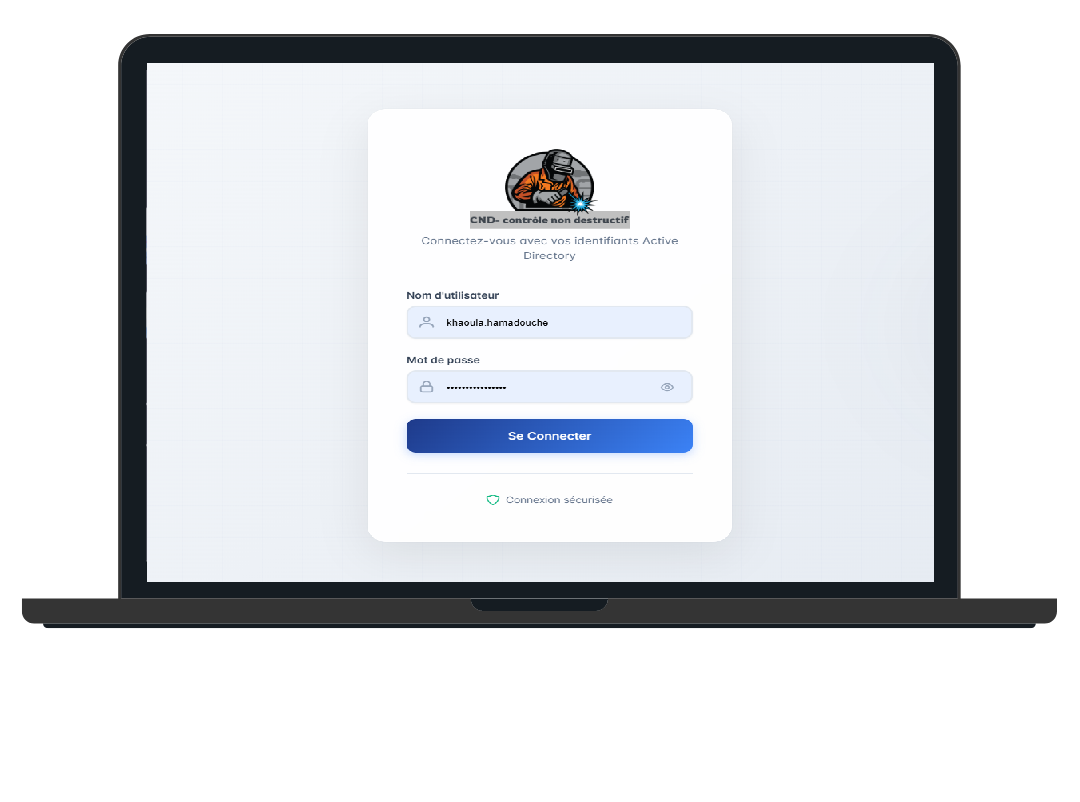
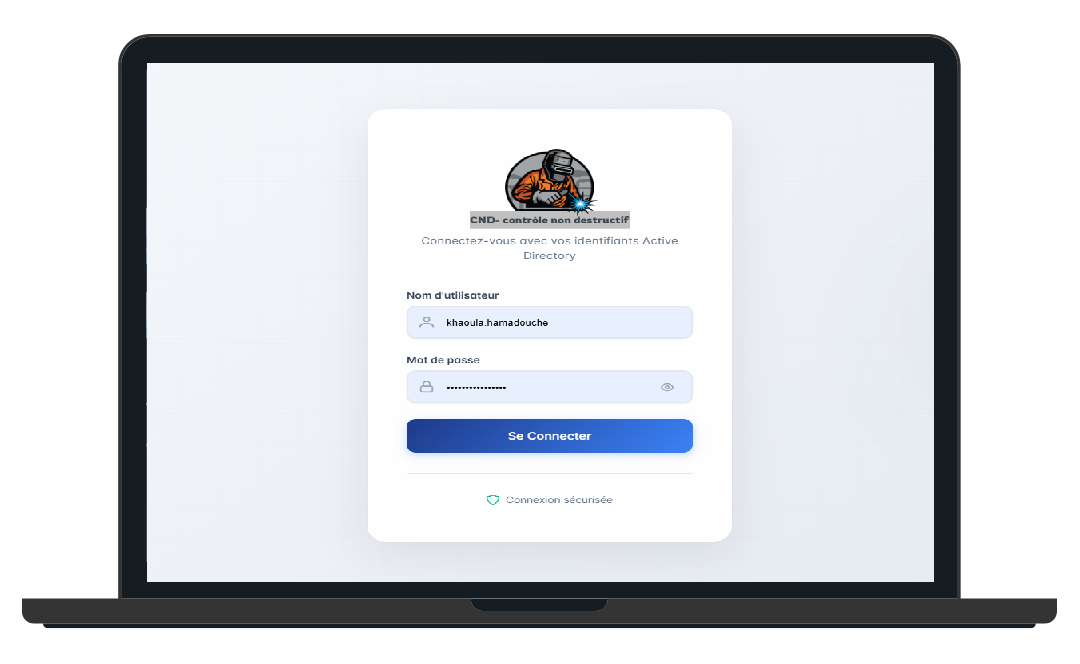
portfolio

diff --git a/src/components/Projects/Projects.js b/src/components/Projects/Projects.js
@@ -9,6 +9,26 @@ import chatify from "../../Assets/Projects/chatify.png";
 import suicide from "../../Assets/Projects/suicide.png";
 import bitsOfCode from "../../Assets/Projects/blog.png";
 
+// Import des icônes de technologies
+import ReactIcon from "../../Assets/TechIcons/React.svg";
+import Java from "../../Assets/TechIcons/Java.svg";
+import angular from "../../Assets/TechIcons/angular.svg";
+import springboot from "../../Assets/TechIcons/spring-boot-icon.svg";
+import SQL from "../../Assets/TechIcons/SQL.svg";
+import Tailwind from "../../Assets/TechIcons/Tailwind.svg";
+import Typescript from "../../Assets/TechIcons/Typescript.svg";
+import MUI from "../../Assets/TechIcons/MUI.svg";
+import Javascript from "../../Assets/TechIcons/Javascript.svg";
+import Laravel from "../../Assets/TechIcons/laravel.svg";
+import Php from "../../Assets/TechIcons/php.svg";
+import Drupal from "../../Assets/TechIcons/drupal.svg";
+import Html from "../../Assets/TechIcons/html.svg";
+import Css from "../../Assets/TechIcons/css.svg";
+import Scss from "../../Assets/TechIcons/sass.svg";
+
+
+
+
 function Projects() {
   return (
     <Container fluid className="project-section">
@@ -18,7 +38,7 @@ function Projects() {
            Mes projets <strong className="purple">récents </strong>
         </h1>
         <p style={{ color: "white" }}>
-           Voici quelques projets sur lesquels j’ai travaillé récemment
+           Voici quelques projets sur lesquels j'ai travaillé récemment
         </p>
         <Row style={{ justifyContent: "center", paddingBottom: "10px" }}>
           <Col md={4} className="project-card">
@@ -26,9 +46,18 @@ function Projects() {
               imgPath={chatify}
               isBlog={false}
               title="TOSYS APP"
-              description="Personal Chat Room or Workspace to share resources and hangout with friends build with react.js, Material-UI, and Firebase. Have features which allows user for realtime messaging, image sharing as well as supports reactions on messages."
-              ghLink="https://github.com/soumyajit4419/Chatify"
-              demoLink="https://chatify-49.web.app/"
+              description="Est une plateforme web développée pour SARPI visant à moderniser la gestion des utilisateurs. Elle facilite l'administration des comptes AD/Exchange, réduit les tâches manuelles grâce à l'automatisation et assure une gestion sécurisée et traçable des opérations."
+              ghLink="https://github.com/khaoula-hamadouche/TosysApp"
+              techStack={[
+                { name: "React", icon: ReactIcon },
+                { name: "Javascript", icon: Javascript },
+                { name: "MySQL", icon: SQL },
+                { name: "Tailwind", icon: Tailwind },
+                { name: "Material UI", icon: MUI },
+                { name: "Laravel", icon: Laravel },
+                { name: "Css", icon: Css },
+
+              ]}
             />
           </Col>
 
@@ -37,9 +66,16 @@ function Projects() {
               imgPath={bitsOfCode}
               isBlog={false}
               title="CME APP"
-              description="My personal blog page build with Next.js and Tailwind Css which takes the content from makdown files and renders it using Next.js. Supports dark mode and easy to write blogs using markdown."
-              ghLink="https://github.com/soumyajit4419/Bits-0f-C0de"
-              demoLink="https://blogs.soumya-jit.tech/"
+              description="Vise à moderniser les processus de gestion des marchés via une plateforme web intelligente, en centralisant les dossiers, en automatisant les tâches récurrentes et en soutenant la prise de décision grâce à un module d'intelligence artificielle."
+              ghLink="https://github.com/khaoula-hamadouche/Cmeapp"
+              techStack={[
+                { name: "Angular", icon: angular },
+                { name: "Spring Boot", icon: springboot },
+                { name: "MySQL", icon: SQL },
+                { name: "Java", icon: Java },
+                { name: "Material UI", icon: MUI },
+                { name: "Scss", icon: Scss },
+              ]}
             />
           </Col>
 
@@ -48,9 +84,18 @@ function Projects() {
               imgPath={editor}
               isBlog={false}
               title="CND APP"
-              description="Online code and markdown editor build with react.js. Online Editor which supports html, css, and js code with instant view of website. Online markdown editor for building README file which supports GFM, Custom Html tags with toolbar and instant preview.Both the editor supports auto save of work using Local Storage"
-              ghLink="https://github.com/soumyajit4419/Editor.io"
-              demoLink="https://editor.soumya-jit.tech/"              
+              description="Est une plateforme dédiée aux soudeurs et contrôleurs non destructifs, visant à digitaliser et centraliser le suivi des opérations de contrôle, à automatiser certaines tâches et à améliorer la traçabilité et la fiabilité des inspections."
+              ghLink="https://github.com/khaoula-hamadouche/CndApp"
+              techStack={[
+                { name: "React", icon: ReactIcon },
+                { name: "Javascript", icon: Javascript },
+                { name: "MySQL", icon: SQL },
+                { name: "Tailwind", icon: Tailwind },
+                { name: "Material UI", icon: MUI },
+                { name: "Laravel", icon: Laravel },
+                { name: "Css", icon: Css },
+                
+              ]}
             />
           </Col>
 
@@ -59,9 +104,17 @@ function Projects() {
               imgPath={leaf}
               isBlog={false}
               title="GMAT APP"
-              description="Used the plant disease dataset from Kaggle and trained a image classifer model using 'PyTorch' framework using CNN and Transfer Learning with 38 classes of various plant leaves. The model was successfully able to detect diseased and healthy leaves of 14 unique plants. I was able to achieve an accuracy of 98% by using Resnet34 pretrained model."
-              ghLink="https://github.com/soumyajit4419/Plant_AI"
-              demoLink="https://plant49-ai.herokuapp.com/"
+              description="Est une plateforme dédiée à la gestion du matériel et de la maintenance, visant à centraliser les équipements, planifier les opérations de maintenance, automatiser les tâches courantes et assurer un suivi fiable et traçable des interventions."
+              ghLink="https://github.com/khaoula-hamadouche/GmatApp"
+              techStack={[
+                { name: "React", icon: ReactIcon },
+                { name: "Typescript", icon: Typescript },
+                { name: "MySQL", icon: SQL },
+                { name: "Tailwind", icon: Tailwind },
+                { name: "Material UI", icon: MUI },
+                { name: "Laravel", icon: Laravel },
+                { name: "Css", icon: Css },
+              ]}
             />
           </Col>
 
@@ -70,9 +123,14 @@ function Projects() {
               imgPath={suicide}
               isBlog={false}
               title="Gestion courrier Algérie Télécom"
-              description="Using 'Natural Launguage Processing' for the detection of suicide-related posts and user's suicide ideation in cyberspace  and thus helping in sucide prevention."
-              ghLink="https://github.com/soumyajit4419/AI_For_Social_Good"
-              // demoLink="https://www.youtube.com/watch?v=dQw4w9WgXcQ&ab_channel=RickAstley" <--------Please include a demo link here
+              description="Est une plateforme qui centralise la réception et l'envoi des courriers au sein de l'entreprise, facilite leur suivi et optimise la gestion interne de l'ensemble des envois."
+              ghLink="https://github.com/khaoula-hamadouche/gestion_courrier/tree/main/PFE"
+              techStack={[
+                { name: "Php", icon: Php },
+                { name: "MySQL", icon: SQL },
+                { name: "Css", icon: Css },
+                { name: "Html", icon: Html },
+              ]}
             />
           </Col>
 
@@ -81,10 +139,12 @@ function Projects() {
               imgPath={emotion}
               isBlog={false}
               title="Portail Sarpi"
-              description="Trained a CNN classifier using 'FER-2013 dataset' with Keras and tensorflow backened. The classifier sucessfully predicted the various types of emotions of human. And the highest accuracy obtained with the model was 60.1%.
-              Then used Open-CV to detect the face in an image and then pass the face to the classifer to predict the emotion of a person."
+              description="Est une plateforme centralisée qui permet d'accéder aux informations de chaque département de la société SARPI, facilitant la consultation, le suivi et la gestion interne des données."
               ghLink="https://github.com/soumyajit4419/Face_And_Emotion_Detection"
-              // demoLink="https://blogs.soumya-jit.tech/"      <--------Please include a demo link here 
+              techStack={[
+                { name: "Drupal", icon: Drupal },
+                { name: "Css", icon: Css },
+              ]}
             />
           </Col>
         </Row>

diff --git a/src/components/Projects/ProjectCards.js b/src/components/Projects/ProjectCards.js
@@ -13,14 +13,56 @@ function ProjectCards(props) {
         <Card.Text style={{ textAlign: "justify" }}>
           {props.description}
         </Card.Text>
+        
+        {/* Section des technologies utilisées */}
+        {props.techStack && props.techStack.length > 0 && (
+          <div style={{ margin: "15px 0" }}>
+            <h6 style={{ marginBottom: "10px", color: "#c770f0" }}>
+              Technologies utilisées:
+            </h6>
+            <div style={{ 
+              display: "flex", 
+              flexWrap: "wrap", 
+              gap: "10px",
+              justifyContent: "center"
+            }}>
+              {props.techStack.map((tech, index) => (
+                <div
+                  key={index}
+                  style={{
+                    display: "flex",
+                    alignItems: "center",
+                    gap: "5px",
+                    padding: "5px 10px",
+                    backgroundColor: "rgba(199, 112, 240, 0.1)",
+                    borderRadius: "5px",
+                    border: "1px solid rgba(199, 112, 240, 0.3)"
+                  }}
+                >
+                  <img 
+                    src={tech.icon} 
+                    alt={tech.name}
+                    style={{ 
+                      width: "20px", 
+                      height: "20px",
+                      objectFit: "contain"
+                    }}
+                  />
+                  <span style={{ fontSize: "12px", color: "white" }}>
+                    {tech.name}
+                  </span>
+                </div>
+              ))}
+            </div>
+          </div>
+        )}
+
         <Button variant="primary" href={props.ghLink} target="_blank">
           <BsGithub /> &nbsp;
           {props.isBlog ? "Blog" : "GitHub"}
         </Button>
         {"\n"}
         {"\n"}
-
-        {/* If the component contains Demo link and if it's not a Blog then, it will render the below component  */}
 
         {!props.isBlog && props.demoLink && (
           <Button
@@ -37,4 +79,5 @@ function ProjectCards(props) {
     </Card>
   );
 }
+
 export default ProjectCards;

diff --git a/src/components/About/Techstack.js b/src/components/About/Techstack.js
@@ -20,6 +20,12 @@ import springboot from "../../Assets/TechIcons/spring-boot-icon.svg";
 import flutter from "../../Assets/TechIcons/flutter.svg";
 import django from "../../Assets/TechIcons/django-logo-icon.svg";
 import Postman from "../../Assets/TechIcons/Postman.svg";
+import Laravel from "../../Assets/TechIcons/laravel.svg";
+import Php from "../../Assets/TechIcons/php.svg";
+import Drupal from "../../Assets/TechIcons/drupal.svg";
+import Html from "../../Assets/TechIcons/html.svg";
+import Css from "../../Assets/TechIcons/css.svg";
+import Scss from "../../Assets/TechIcons/sass.svg";
 
 
 function Techstack() {
@@ -45,6 +51,30 @@ function Techstack() {
       <Col xs={4} md={2} className="tech-icons">
         <img src={ReactIcon} alt="react" />
         <div className="tech-icons-text">React.Js</div>
+      </Col>
+      <Col xs={4} md={2} className="tech-icons">
+        <img src={Html} alt="html" height={20} width={20}/>
+        <div className="tech-icons-text">HTML</div>
+      </Col>
+      <Col xs={4} md={2} className="tech-icons">
+        <img src={Css} alt="css" height={20} width={20}/>
+        <div className="tech-icons-text">CSS</div>
+      </Col>
+      <Col xs={4} md={2} className="tech-icons">
+        <img src={Drupal} alt="drupal" height={20} width={20}/>
+        <div className="tech-icons-text">Drupal</div>
+      </Col>
+      <Col xs={4} md={2} className="tech-icons">
+        <img src={Scss} alt="scss"height={20} width={40} />
+        <div className="tech-icons-text">SCSS</div>
+      </Col>
+      <Col xs={4} md={2} className="tech-icons">
+        <img src={Laravel} alt="laravel" height={20} width={20}/>
+        <div className="tech-icons-text">Laravel</div>
+      </Col>
+      <Col xs={4} md={2} className="tech-icons">
+        <img src={Php} alt="php" height={25} width={40}/>
+        <div className="tech-icons-text">PHP</div>
       </Col>
     
      
